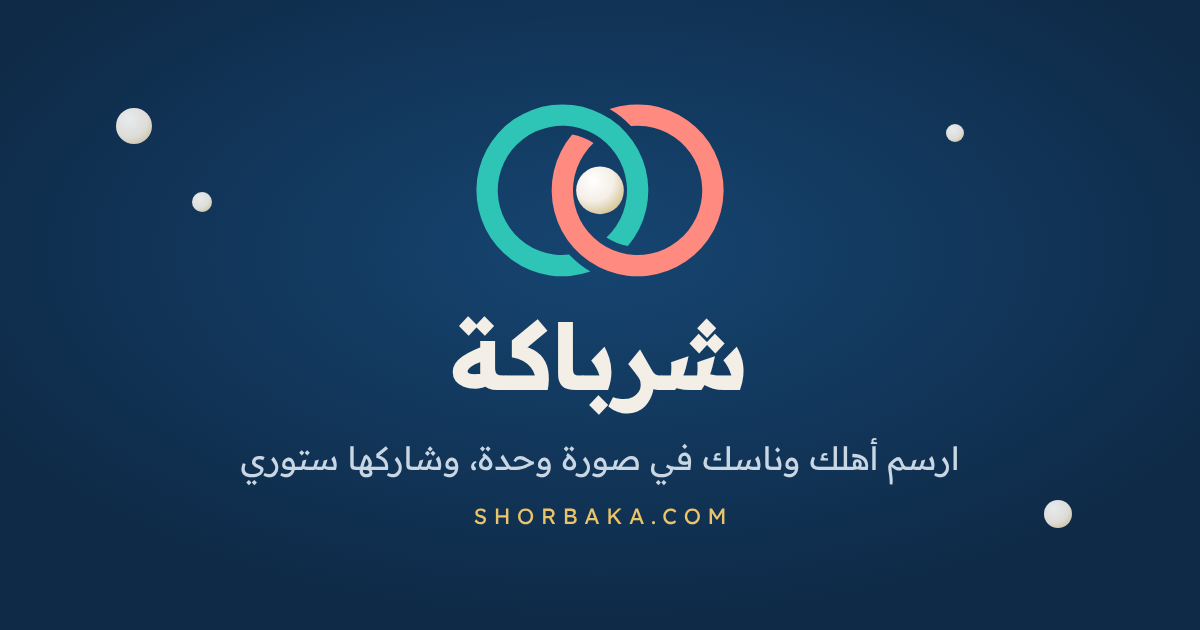
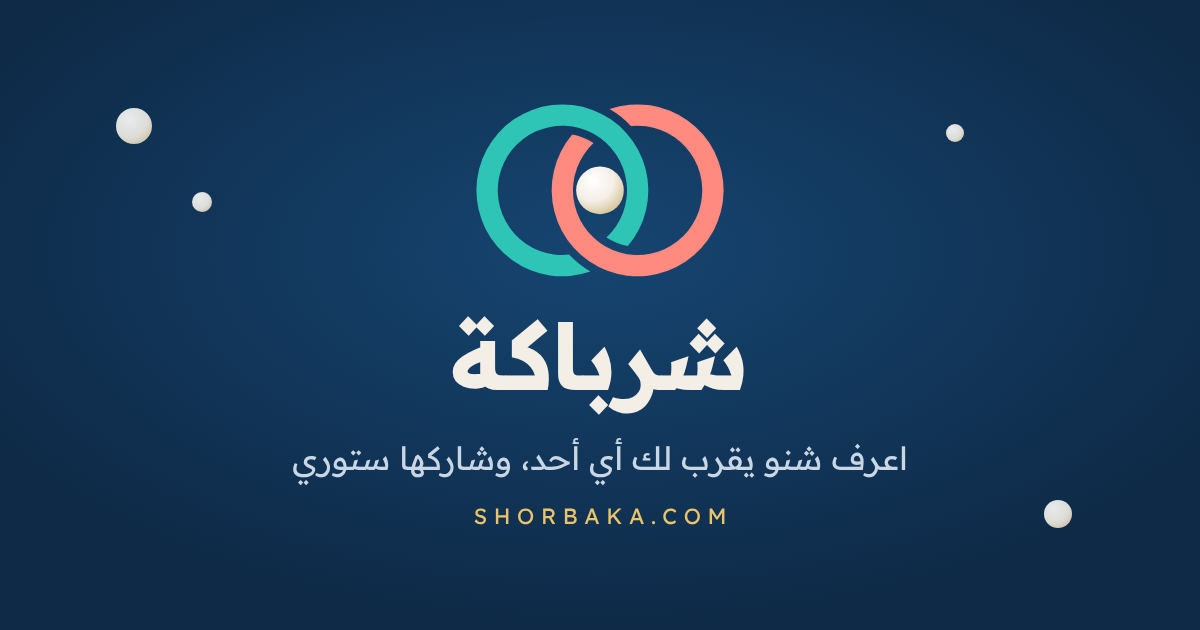
Launch shorbaka.com as the kinship finder, no more «قريبًا»
The home page is now the product: the hero says what it does (اعرف شنو
يقرب لك أي أحد) with a start button that jumps to the finder. The coming
soon pill, the circles chips and the «قريبًا» line under the finder are
gone; the bigger app comes later. Title, description and the link
preview image now describe the kinship finder.

Claude-Session: https://claude.ai/code/session_01XgPc9PUmLVNMhvKzPEFRrg

Changed region(s): [[0.185, 0.6937, 0.8017, 0.7841]]

diff --git a/index.html b/index.html
@@ -3,13 +3,13 @@
 <head>
   <meta charset="UTF-8">
   <meta name="viewport" content="width=device-width, initial-scale=1, viewport-fit=cover">
-  <title>شرباكة | Shorbaka</title>
-  <meta name="description" content="ارسم أهلك وناسك ودوايرك في صورة وحدة، وشاركها ستوري. Map your family and friends in one picture and share it as a story. Coming soon.">
+  <title>شرباكة | شنو يقرب لك؟</title>
+  <meta name="description" content="اعرف شنو يقرب لك أي أحد: امشِ بالشجرة خطوة خطوة ونكتب لك صلة القرابة بجملة وحدة، وشاركها ستوري. Find out exactly how you are related to anyone and share it as a story.">
   <meta name="theme-color" content="#0E2A47">
 
   <meta property="og:site_name" content="شرباكة">
-  <meta property="og:title" content="شرباكة | Shorbaka">
-  <meta property="og:description" content="ارسم أهلك وناسك في صورة وحدة، وشاركها ستوري. قريبًا.">
+  <meta property="og:title" content="شرباكة | شنو يقرب لك؟">
+  <meta property="og:description" content="اعرف صلة القرابة بينك وبين أي أحد بجملة وحدة، وشاركها ستوري.">
   <meta property="og:url" content="https://shorbaka.com/">
   <meta property="og:type" content="website">
   <meta property="og:locale" content="ar_KW">
@@ -125,51 +125,25 @@
       margin-top: 8px;
       animation: up .8s ease-out .9s both;
     }
-    .chips {
-      list-style: none;
-      display: flex; flex-wrap: wrap; justify-content: center; gap: 8px;
-      margin: 26px 0 30px;
-      animation: up .8s ease-out 1s both;
-    }
-    .chips li {
-      display: inline-flex; align-items: center; gap: 8px;
-      padding: 7px 14px; border-radius: 999px;
-      font-size: .95rem; font-weight: 500;
-      background: rgba(244, 239, 230, .06);
-      box-shadow: inset 0 0 0 1px rgba(244, 239, 230, .16);
-    }
-    .chips i { width: 9px; height: 9px; border-radius: 50%; background: var(--c); }
-    .soon {
-      display: inline-flex; align-items: center; gap: 12px;
-      background: var(--pearl); color: var(--navy);
-      padding: 12px 24px; border-radius: 999px;
+    .cta {
+      display: inline-flex; align-items: center; gap: 10px;
+      margin-top: 28px; padding: 13px 30px; border-radius: 999px;
+      background: var(--pearl); color: var(--navy); text-decoration: none;
       font-size: 1.15rem; font-weight: 700;
       box-shadow: 0 10px 30px rgba(0, 0, 0, .25);
-      animation: up .8s ease-out 1.1s both;
+      animation: up .8s ease-out 1s both;
     }
-    .soon .dot { width: 10px; height: 10px; border-radius: 50%; background: var(--teal); box-shadow: 0 0 0 0 rgba(46, 196, 182, .6); animation: ping 2s ease-out 2s infinite; }
-    .soon .en { direction: ltr; font-size: .85rem; font-weight: 500; color: #4A5F78; }
-    @keyframes ping { 0% { box-shadow: 0 0 0 0 rgba(46, 196, 182, .6); } 80%, 100% { box-shadow: 0 0 0 10px rgba(46, 196, 182, 0); } }
+    .cta:hover { background: #FFFFFF; }
+    .cta svg { width: 20px; height: 20px; fill: none; stroke: currentColor; stroke-width: 2.2; stroke-linecap: round; stroke-linejoin: round; animation: nudge 2.4s ease-in-out 2.4s infinite; }
+    @keyframes nudge { 0%, 100% { transform: none; } 50% { transform: translateY(3px); } }
     @keyframes up { from { opacity: 0; transform: translateY(10px); } to { opacity: 1; transform: none; } }
 
     [hidden] { display: none !important; }
     html { scroll-behavior: smooth; }
     html.kin-lock { overflow: hidden; }
 
-    .try {
-      display: inline-flex; align-items: center; gap: 8px;
-      margin-top: 16px; padding: 11px 20px; border-radius: 999px;
-      color: var(--pearl); text-decoration: none;
-      font-size: 1rem; font-weight: 500;
-      box-shadow: inset 0 0 0 1px rgba(244, 239, 230, .3);
-      animation: up .8s ease-out 1.25s both;
-    }
-    .try:hover { background: rgba(244, 239, 230, .08); }
-    .try svg { width: 18px; height: 18px; fill: none; stroke: currentColor; stroke-width: 2; stroke-linecap: round; stroke-linejoin: round; animation: nudge 2.4s ease-in-out 2.6s infinite; }
-    @keyframes nudge { 0%, 100% { transform: none; } 50% { transform: translateY(3px); } }
-
     .kin {
-      width: 100%; margin-top: 72px; padding: 26px 18px 22px;
+      width: 100%; margin-top: 48px; padding: 26px 18px 22px;
       border-radius: 28px; text-align: start;
       background: linear-gradient(180deg, rgba(244, 239, 230, .075), rgba(244, 239, 230, .03));
       box-shadow: inset 0 0 0 1px rgba(244, 239, 230, .12), 0 30px 60px rgba(0, 0, 0, .22);
@@ -177,9 +151,7 @@
     }
     .kin button { font-family: inherit; -webkit-tap-highlight-color: transparent; }
     .kin button:focus-visible, .kin a:focus-visible, .kin-modal button:focus-visible, .kin-modal a:focus-visible { outline: 2px solid var(--teal); outline-offset: 2px; }
-    .kin-eyebrow { display: inline-flex; align-items: center; gap: 6px; padding: 5px 12px; border-radius: 999px; background: rgba(233, 196, 106, .14); color: var(--sand); font-size: .85rem; font-weight: 500; }
-    .kin-eyebrow svg { width: 14px; height: 14px; fill: currentColor; }
-    .kin h2 { font-size: clamp(1.75rem, 7.4vw, 2.15rem); font-weight: 700; line-height: 1.3; margin-top: 12px; }
+    .kin h2 { font-size: clamp(1.75rem, 7.4vw, 2.15rem); font-weight: 700; line-height: 1.3; }
     .kin-en { direction: ltr; text-align: right; font-size: .85rem; letter-spacing: .04em; color: var(--sand); margin-top: 2px; }
     .kin-sub { color: var(--muted); font-size: 1rem; line-height: 1.75; margin-top: 10px; }
 
@@ -291,8 +263,6 @@
 
     .kin-privacy { display: flex; align-items: center; justify-content: center; gap: 6px; margin-top: 18px; font-size: .82rem; color: var(--muted); }
     .kin-privacy svg { width: 15px; height: 15px; flex: none; fill: none; stroke: currentColor; stroke-width: 1.8; stroke-linecap: round; }
-    .kin-later { margin-top: 26px; font-size: 1rem; line-height: 1.7; color: var(--muted); text-wrap: balance; }
-    .kin-later b { color: var(--pearl); font-weight: 500; }
 
     .kin-modal {
       position: fixed; inset: 0; z-index: 50; display: flex; align-items: center; justify-content: center;
@@ -357,24 +327,14 @@
     <h1>شرباكة</h1>
     <div class="latin" lang="en">shorbaka</div>
 
-    <p class="tag">ارسم أهلك وناسك ودوايرك<br>في صورة وحدة، وشاركها ستوري</p>
-    <p class="tag-en" lang="en">Map your family, your friends and everyone in between, then share it as a story.</p>
+    <p class="tag">اعرف شنو يقرب لك أي أحد<br>بجملة وحدة، وشاركها ستوري</p>
+    <p class="tag-en" lang="en">Find out exactly how you are related to anyone, then share it as a story.</p>
 
-    <ul class="chips" aria-label="الدواير">
-      <li><i style="--c:var(--coral)"></i>الأهل</li>
-      <li><i style="--c:var(--teal)"></i>الربع</li>
-      <li><i style="--c:var(--sand)"></i>الديوانية</li>
-      <li><i style="--c:var(--sky)"></i>الدوام</li>
-      <li><i style="--c:var(--pearl)"></i>الهوايات</li>
-    </ul>
-
-    <div class="soon"><span class="dot" aria-hidden="true"></span>قريبًا <span class="en" lang="en">Coming soon</span></div>
-    <a class="try" href="#kin">جرّب: شنو يقرب لك؟<svg viewBox="0 0 24 24" aria-hidden="true"><path d="M12 5v14M6.5 13.5L12 19l5.5-5.5"/></svg></a>
+    <a class="cta" href="#kin">ابدأ<svg viewBox="0 0 24 24" aria-hidden="true"><path d="M12 5v14M6.5 13.5L12 19l5.5-5.5"/></svg></a>
 
     <section class="kin" id="kin" aria-labelledby="kin-title">
-      <span class="kin-eyebrow"><svg viewBox="0 0 24 24" aria-hidden="true"><path d="M12 2.8l2.8 5.7 6.3.9-4.6 4.4 1.1 6.2L12 17l-5.6 3 1.1-6.2-4.6-4.4 6.3-.9z"/></svg>جرّبها الحين</span>
       <h2 id="kin-title">شنو يقرب لك؟</h2>
-      <p class="kin-en" lang="en">How are you related? Try it.</p>
+      <p class="kin-en" lang="en">How are you related?</p>
       <p class="kin-sub">اكتب اسمك واسم الشخص، ودوس على اسمك. امشِ بالشجرة خطوة خطوة لين توصل له، ونكتب لك صلة القرابة بينكم.</p>
 
       <div class="kin-names">
@@ -418,8 +378,6 @@
 
       <p class="kin-privacy"><svg viewBox="0 0 24 24" aria-hidden="true"><rect x="5" y="11" width="14" height="9" rx="2"/><path d="M8 11V8a4 4 0 0 1 8 0v3"/></svg>الأسماء تبقى في جهازك، ما تطلع لأحد.</p>
     </section>
-
-    <p class="kin-later">وهذي بس البداية.<br><b>قريبًا</b> ترسم أهلك وناسك كلهم في صورة وحدة.</p>
   </main>
 
   <footer>© <span id="y">2026</span> SHORBAKA.COM</footer>
